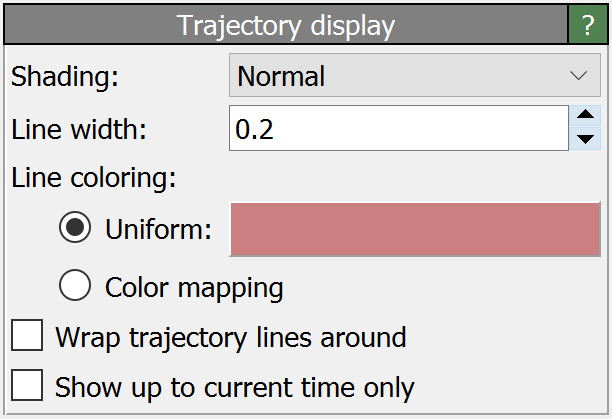
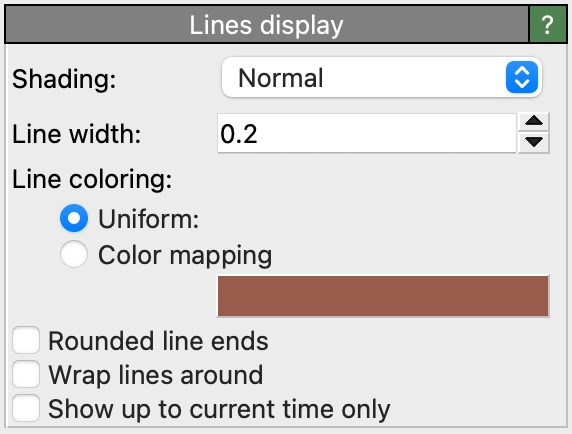
Bumped version number to 3.10.3

diff --git a/doc/manual/reference/pipelines/visual_elements/lines.rst b/doc/manual/reference/pipelines/visual_elements/lines.rst
@@ -11,20 +11,20 @@ Lines
    :width: 30%
    :align: right
 
-This :ref:`visual element <visual_elements>` renders continuous lines. The visual element is automatically attached to line objects
-created by the :ref:`particles.modifiers.generate_trajectory_lines` modifier or the :py:attr:`lines.create() <ovito.data.DataCollection.lines>` method.
+This :ref:`visual element <visual_elements>` renders continuous lines. The visual element is automatically attached to :ref:`line objects <scene_objects.lines>`
+created by the :ref:`particles.modifiers.generate_trajectory_lines` modifier or the :py:attr:`DataCollection.lines.create() <ovito.data.DataCollection.lines>`
+Python method.
 
-The option :guilabel:Rounded line ends provides hemispherical caps at the ends of lines. Without this option, lines end with a flat face. 
-While this feature alters the visual appearance, it does not modify the underlying lines object.
+The option :guilabel:`Rounded line ends` provides hemispherical caps at the ends of lines. Without this option, lines end with a flat face.
 
 The option :guilabel:`Wrap lines around` folds lines leaving the periodic simulation
 cell back into the cell. Note that this option can only yield correct results if the simulation cell size
 does not change with time (fixed box dimensions).
 
-The option :guilabel:`Show up to current time only` restricts rendering of lines generated by the :ref:`particles.modifiers.generate_trajectory_lines`
+The option :guilabel:`Show up to current time only` restricts rendering of lines generated by the :ref:`particles.modifiers.generate_trajectory_lines` modifier
 to those parts which have already been traversed by the particles up to the current animation time. Thus, the trajectory lines will
-be gradually drawn while playing the animation, as in the examples shown on the right. This option is unavailable for lines created manually
-using the :py:attr:`lines.create() <ovito.data.DataCollection.lines>` method.
+be gradually drawn while playing the animation, as in the example animation to the right. This option may not be available for lines created via Python
+using the :py:attr:`DataCollection.lines.create() <ovito.data.DataCollection.lines>` method.
 
 Line coloring
 """""""""""""
@@ -32,15 +32,14 @@ Line coloring
 By default, the lines are all rendered with the same uniform color. Alternatively, you
 can activate the :guilabel:`Color mapping` option, which tells the visual element to visualize a local property
 along the lines using a pseudo-color map. When this option is selected,
-OVITO shows a separate color mapping panel, which lets you pick the source property for the pseudo-coloring
+OVITO opens a separate color mapping panel, which lets you pick the source property for the pseudo-coloring
 and configure the color transfer function.
 
-When using the :ref:`particles.modifiers.generate_trajectory_lines` modifier, the source property for the line pseudo-coloring can be
-adopted from the particles the trajectory lines are based on. For this, make sure
-to activate the :guilabel:`Sample a particle property` option.
-This option copies the property values at each timestep from the particles to the corresponding vertices of the trajectory lines.
+The :ref:`particles.modifiers.generate_trajectory_lines` modifier allows mapping a time-varying
+particle property to the generated trajectory lines, which can then be visualized using the color mapping feature.
+For this, make sure to activate the :guilabel:`Sample a particle property` option in the :ref:`particles.modifiers.generate_trajectory_lines` modifier.
 
-When manually creating :py:class:`Lines <ovito.data.Lines>`, user defined properties can be attached to each vertex which can be used as
+When creating a :py:class:`Lines <ovito.data.Lines>` data object via Python, user-defined properties can be attached to each vertex, which can be used as
 basis for pseudo-color coding.
 
 .. seealso::

diff --git a/doc/manual/reference/pipelines/modifiers/color_coding.rst b/doc/manual/reference/pipelines/modifiers/color_coding.rst
@@ -25,7 +25,7 @@ The field :guilabel:`Operate on` selects the type of data elements the modifier 
   Mesh faces       Colors the facets of a :ref:`surface mesh <scene_objects.surface_mesh>` according to a local property.
   Mesh vertices    Colors the vertices of a :ref:`surface mesh <scene_objects.surface_mesh>` according to a local property.
   Mesh regions     Colors the volumetric components of a :ref:`surface mesh <scene_objects.surface_mesh>`.
-  Lines            Colors :ref:`Lines <scene_objects.lines>` created by the :ref:`particles.modifiers.generate_trajectory_lines` modifier or the or added using the :py:attr:`lines.create() <ovito.data.DataCollection.lines>` method.
+  Lines            Colors :ref:`Lines <scene_objects.lines>` created by the :ref:`particles.modifiers.generate_trajectory_lines` modifier or the or added using the :py:attr:`DataCollection.lines.create() <ovito.data.DataCollection.lines>` method.
   ================ =================================================================================
 
 The color getting assigned to an element (e.g. a particle) is determined by the modifier as follows:
@@ -33,33 +33,33 @@ First, the value of the selected input property of the element is linearly mappe
 parameters :guilabel:`Start value` and :guilabel:`End value` of the modifier. The normalized value is then mapped to an RGB color based on the selected color gradient.
 
 The function :guilabel:`Adjust range` resets the :guilabel:`Start value` and
-:guilabel:`End value` parameters to the current minimum and maximum 
+:guilabel:`End value` parameters to the current minimum and maximum
 of the selected input property, respectively. This ensures that no clamping of input values occurs for the current
-simulation frame. The function :guilabel:`Adjust range (all frames)` does the same but takes into account 
+simulation frame. The function :guilabel:`Adjust range (all frames)` does the same but takes into account
 the entire simulation trajectory to determine the range of input property values.
 The function :guilabel:`Reverse range` simply
 swaps the :guilabel:`Start value` and :guilabel:`End value` parameters to effectively reverse the color scale.
 
 Custom color gradients
 """"""""""""""""""""""
-    
+
 The modifier offers a set of predefined color gradients that you can choose from. If you would like to define your
 own type of color map instead, select :guilabel:`Load custom color map...` from the gradients list.
 The program will ask you to pick an image file on your computer containing the custom color gradient.
 You can prepare such a file using any image editing program. OVITO will use the RGB colors
 of one row of pixels of the imported image to generate the user-defined color map. Here are two examples of color gradient images:
 
-+-----------------------------------------------------------+ 
-| .. image:: /images/modifiers/color_coding_custom_map.png  |   
-+-----------------------------------------------------------+ 
++-----------------------------------------------------------+
+| .. image:: /images/modifiers/color_coding_custom_map.png  |
++-----------------------------------------------------------+
 
-+-----------------------------------------------------------+ 
++-----------------------------------------------------------+
 | .. image:: /images/modifiers/color_coding_custom_map2.png |
-+-----------------------------------------------------------+ 
++-----------------------------------------------------------+
 
 Color legend
 """"""""""""
-    
+
 If you want to include the color map of the modifier in rendered images or animations as a legend, add the
 :ref:`Color legend <viewport_layers>` layer to the active viewport.
 
@@ -67,7 +67,7 @@ Parameters
 """"""""""
 
 Operate on
-  Selects the kind of data elements to be colored by the modifier (see table above). Note that the modifier lets you select only from those 
+  Selects the kind of data elements to be colored by the modifier (see table above). Note that the modifier lets you select only from those
   data elements that are currently present in the dataset the modifier receives as input from the data pipeline.
 
 Property
@@ -91,5 +91,5 @@ Keep selection
   This option retains the current selection so that it remains available to subsequent modifiers in the data pipeline.
 
 .. seealso::
-  
+
   :py:class:`ovito.modifiers.ColorCodingModifier` (Python API)

diff --git a/doc/manual/reference/pipelines/visual_elements/index.rst b/doc/manual/reference/pipelines/visual_elements/index.rst
@@ -39,7 +39,7 @@ This will turn off the visualization of the corresponding data in the interactiv
   :ref:`Surface mesh <visual_elements.surface_mesh>`                 Renders a smooth polygonal :ref:`surface mesh <scene_objects.surface_mesh>`
   :ref:`Triangle mesh <visual_elements.triangle_mesh>`               Renders a :ref:`triangle mesh <scene_objects.triangle_mesh>` loaded from a mesh geometry file
   :ref:`Voxel grid <visual_elements.voxel_grid>`                     Renders a :ref:`voxel grid <scene_objects.voxel_grid>`
-  :ref:`Lines <visual_elements.lines>`                               Renders a set of continuous lines to visualize the particle trajectories created with the :ref:`particles.modifiers.generate_trajectory_lines` modifier or drawn using the :py:attr:`lines.create() <ovito.data.DataCollection.lines>` method
+  :ref:`Lines <visual_elements.lines>`                               Renders a set of continuous lines to visualize the particle trajectories created with the :ref:`particles.modifiers.generate_trajectory_lines` modifier or drawn using the :py:attr:`DataCollection.lines.create() <ovito.data.DataCollection.lines>` method
   :ref:`Dislocations <visual_elements.dislocations>`                 Renders dislocation lines extracted by the :ref:`particles.modifiers.dislocation_analysis` modifier
   ================================================================== =================
 
@@ -52,11 +52,11 @@ This will turn off the visualization of the corresponding data in the interactiv
   :hidden:
 
   particles
-  bonds  
-  vectors  
-  simulation_cell  
-  surface_mesh  
-  triangle_mesh  
-  voxel_grid  
-  lines  
-  dislocations  
+  bonds
+  vectors
+  simulation_cell
+  surface_mesh
+  triangle_mesh
+  voxel_grid
+  lines
+  dislocations

diff --git a/doc/manual/reference/pipelines/modifiers/generate_trajectory_lines.rst b/doc/manual/reference/pipelines/modifiers/generate_trajectory_lines.rst
@@ -11,7 +11,7 @@ This modifier produces a set of continuous lines from the time-dependent particl
 It can be used to visualize the trajectories of motion of particles.
 
 You can choose between generating the trajectory lines for every particle in the system or just for a subset of the particles.
-For the latter, you first need to insert a particle selection modifier into the data pipeline to define the selection for the 
+For the latter, you first need to insert a particle selection modifier into the data pipeline to define the selection for the
 trajectory line generation.
 
 Keep in mind that generating and visualizing trajectory lines for simulations with a large number
@@ -27,17 +27,17 @@ The generated lines will be stored in memory, and they will be updated only when
 
 The example animation shows a system of Lennard-Jones particles flowing around two obstacles.
 The paths of motion of the red marker particles have been visualized using trajectory lines generated by the modifier.
-The option :guilabel:`Show up to current time only` of the :ref:`Trajectory lines <visual_elements.trajectory_lines>` visual element restricts
-the rendering of the trajectories to those sections already swept by the particles up to the current animation frame. 
+The option :guilabel:`Show up to current time only` of the :ref:`visual_elements.lines` visual element restricts
+the rendering of the trajectories to those sections already swept by the particles up to the current animation frame.
 Thus, the lines appear to be traced by the moving particles.
 
 Sampling a particle property along the trajectories
 """""""""""""""""""""""""""""""""""""""""""""""""""
 
-The modifier has an option to transfer a varying input property of the particles onto the generated trajectory lines. In other words, the time-dependent particle property 
+The modifier has an option to transfer a varying input property of the particles onto the generated trajectory lines. In other words, the time-dependent particle property
 becomes a location-dependent property of the generated trajectory lines, making it available for visualizing the variation of the quantity along the motion path of the particles.
 Here, for example, the instantaneous velocity of the particle (property ``Velocity Magnitude``) has been sampled and transferred to the trajectory line. The property values along
-the trajectory line were then visualized using the color mapping option of the :ref:`Trajectory lines <visual_elements.trajectory_lines>` visual element:
+the trajectory line were then visualized using the color mapping option of the :ref:`visual_elements.lines` visual element:
 
 .. figure:: /images/modifiers/generate_trajectories_coloring_example.jpg
   :figwidth: 50%
@@ -56,8 +56,8 @@ When :guilabel:`Unwrap trajectories` is active, the modifier uses the `minimum i
 and "unwraps" the trajectory lines to make them continuous. The option is active by default, but you can turn it off in case
 you are working with MD trajectory data that is already in an "unwrapped" form.
 
-Furthermore, note that the :ref:`Trajectory lines <visual_elements.trajectory_lines>` visual element (see lower panel)
-provides the display option :guilabel:`Wrap trajectory lines around`. This option has a reverse effect:
+Furthermore, note that the :ref:`visual_elements.lines` visual element (see lower panel)
+provides the display option :guilabel:`Wrap lines around`. This option has a reverse effect:
 The continuous trajectory lines computed by the modifier are folded back into the simulation box during rendering.
 A trajectory will then appear as a set of separate line segments when it crosses a periodic simulation box boundary.
 
@@ -70,5 +70,3 @@ dynamically changing simulation box.
 .. seealso::
 
   :py:class:`ovito.modifiers.GenerateTrajectoryLinesModifier` (Python API)
-
-.. _visual_elements.trajectory_lines:

diff --git a/doc/manual/new_features.rst b/doc/manual/new_features.rst
@@ -6,6 +6,19 @@ Changelog
 
 .. sidebar::
 
+  * `Download <https://www.ovito.org/download_history/#3.10.3>`__
+
+----------------------------
+Version 3.10.3 (19-Feb-2024)
+----------------------------
+
+- :ref:`visual_elements.lines` visual element: Fixed wrong line caps when using option "Show up to current time only"
+- |ovito-python| Fix ColorTrait (numpy array) error
+- |ovito-pro| Added parameter for ambient occlusion cutoff to :ref:`VisRTX renderer <rendering.visrtx_renderer>`
+- |ovito-pro| Fixed code line duplications in :ref:`modifiers.render_lammps_regions` modifier, which caused warning messages
+
+.. sidebar::
+
   * `Download <https://www.ovito.org/download_history/#3.10.2>`__
 
 ----------------------------

diff --git a/doc/manual/reference/pipelines/data_objects/index.rst b/doc/manual/reference/pipelines/data_objects/index.rst
@@ -26,7 +26,7 @@ rendering the graphical representation do.
   :ref:`Triangle mesh <scene_objects.triangle_mesh>`                 A general polyhedral mesh made of vertices and triangular faces
   :ref:`Data table <scene_objects.data_table>`                       A table of values arranged in columns and rows, which can be visualized as a 2d data plot
   :ref:`Voxel grid <scene_objects.voxel_grid>`                       A structured 2d or 3d grid made of uniform voxel elements
-  :ref:`Lines <scene_objects.lines>`                                 Trajectory lines created by the :ref:`particles.modifiers.generate_trajectory_lines` modifier or the :py:attr:`lines.create() <ovito.data.DataCollection.lines>` method
+  :ref:`Lines <scene_objects.lines>`                                 Trajectory lines created by the :ref:`particles.modifiers.generate_trajectory_lines` modifier or the :py:attr:`DataCollection.lines.create() <ovito.data.DataCollection.lines>` method
   :ref:`Dislocations <scene_objects.dislocations>`                   Line crystal defects extracted by the :ref:`particles.modifiers.dislocation_analysis` modifier
   ================================================================== ==================================================================
 

diff --git a/doc/manual/reference/pipelines/data_objects/lines.rst b/doc/manual/reference/pipelines/data_objects/lines.rst
@@ -10,7 +10,7 @@ Lines
 A lines :ref:`data object <scene_objects>` stores one or more lines to be added to the data collection.
 It can be created using the the :ref:`particles.modifiers.generate_trajectory_lines` modifier,
 by sampling the current positions of the particles over time. Alternatively, users can create lines programatically
-using the :py:attr:`lines.create() <ovito.data.DataCollection.lines>` Python method.
+using the :py:attr:`DataCollection.lines.create() <ovito.data.DataCollection.lines>` Python method.
 
 The visual appearance of the lines in rendered images is controlled by the associated
 :ref:`lines <visual_elements.lines>` visual element.